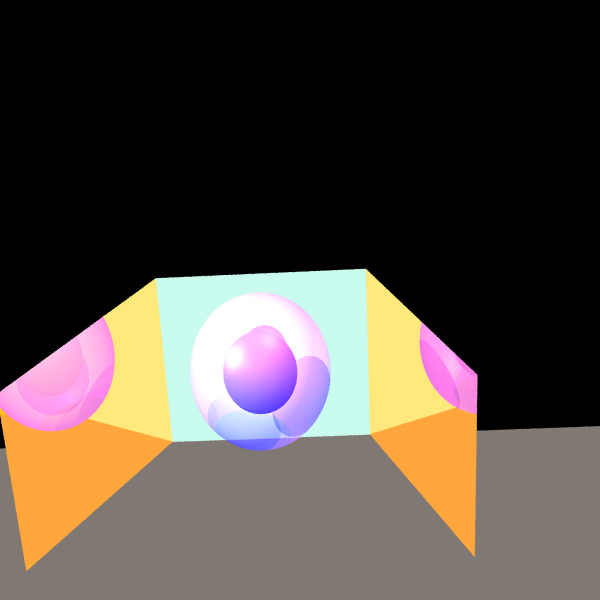
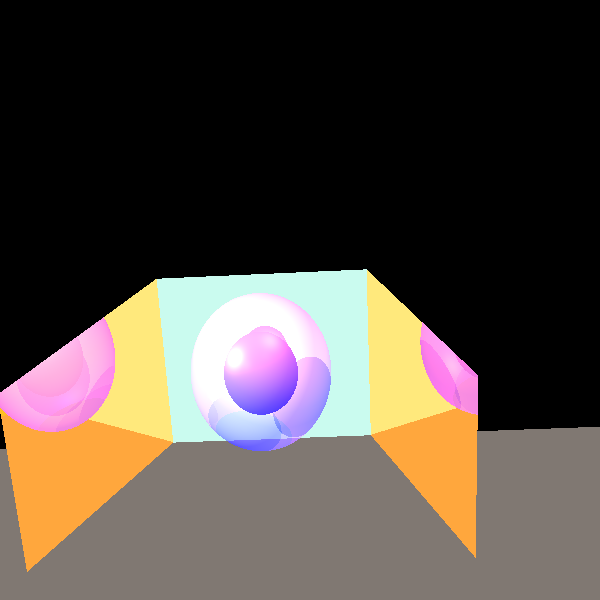
Stage 9: Jagged Edges Improved Efficiency

diff --git a/src/renderer/Camera.java b/src/renderer/Camera.java
@@ -8,6 +8,7 @@ import primitives.Vector;
 import java.util.LinkedList;
 import java.util.MissingResourceException;
 
+import static java.lang.System.out;
 import static primitives.Util.isZero;
 
 /***
@@ -25,7 +26,6 @@ public class Camera {
     private static boolean _MultiThreadingButton = false;
     private static int NUM_OF_THREADS = 1;
     private double _debugPrint = 0;
-
 
 
     //information about the view plane
@@ -51,6 +51,8 @@ public class Camera {
     private boolean _JaggedEdgesButton = false;
     //number of minipixels is used for both height and width of the minipixel for simplicity
     private static int NUMBER_OF_MINIPIXELS = 3;
+
+    public static int MAX_RECURSION = 3;
 
 
     //constructor receives @param  Point centerCam,Vector vto, Vector vup and creates camera
@@ -169,7 +171,7 @@ public class Camera {
             throw new MissingResourceException("Image creation details are not initialized", "Camera", "Writer details");
         if (_MultiThreadingButton) {
             Pixel.initialize(_imageWriter.getNy(), _imageWriter.getNx(), _debugPrint); //debug print is print interval
-            int threadsCount=3;
+            int threadsCount = 3;
             while (threadsCount-- > 0) {
                 new Thread(() -> {
                     for (Pixel pixel = new Pixel(); pixel.nextPixel(); Pixel.pixelDone()) {
@@ -180,8 +182,7 @@ public class Camera {
             }
             Pixel.waitToFinish();
 
-        }
-        else {
+        } else {
             //for every row
             for (int i = 0; i < _imageWriter.getNy(); i++) {
                 //for every column
@@ -269,7 +270,7 @@ public class Camera {
      * @param i the row of the pixel
      * @return color of the pixel
      */
-    public Color castRay(int j, int i) {
+    public Color castRayOld(int j, int i) {
 
         if ((!_depthButton) && (!_JaggedEdgesButton)) { //default code
             Ray thisPixelRay = constructRay(_imageWriter.getNx(), _imageWriter.getNy(), j, i);
@@ -440,5 +441,154 @@ public class Camera {
         //?? assuming debug print is the same as print interval
         _debugPrint = v;
         return this;
+    }
+
+    /***
+     * this function casts a ray from the camera through the current pixel and returns the color of that pixel
+     * @param j the column of the pixel
+     * @param i the row of the pixel
+     * @return color of the pixel
+     */
+    public Color castRay(int j, int i) {
+
+        if ((!_depthButton) && (!_JaggedEdgesButton)) { //default code
+            Ray thisPixelRay = constructRay(_imageWriter.getNx(), _imageWriter.getNy(), j, i);
+
+            Color thisPixelColor = _rayTracerBase.traceRay(thisPixelRay);
+
+            return thisPixelColor;
+        }
+        if (_JaggedEdgesButton) {
+            //inital color for average calculation
+            double colorX = 0;
+            double colorY = 0;
+            double colorZ = 0;
+
+            Point thisPixelPoint = createMiddlePixel(_imageWriter.getNx(), _imageWriter.getNy(), j, i);
+            // out.print(thisPixelPoint);
+
+            //creating a point in the top left corner that is slightly outside the square so that our loop will bring it
+            Point topLeftCorner = thisPixelPoint;
+            Color topLeftColor = _rayTracerBase.traceRay(new Ray(_centerCam, topLeftCorner.subtract(_centerCam).normalize()));
+
+
+            Point bottomRightCorner = thisPixelPoint.add(_Vup.scale((_heightVP / _imageWriter.getNy()) * -1));
+            bottomRightCorner = bottomRightCorner.add(_Vright.scale((_widthVP / _imageWriter.getNx())));
+            Color bottomRightColor = _rayTracerBase.traceRay(new Ray(_centerCam, bottomRightCorner.subtract(_centerCam).normalize()));
+
+            //out.print(bottomRightColor+"\n");
+            Color fullPixelColor = recursivePixelColor(topLeftCorner, topLeftColor, bottomRightCorner, bottomRightColor,
+                    _Vup, _Vright, "left", 0, (_heightVP / _imageWriter.getNy()), (_widthVP / _imageWriter.getNx()));
+
+            return fullPixelColor;
+
+
+        }
+        return Color.BLACK;
+    }
+
+    /***
+     *
+     * @param upperCorner upper left or right corner of pixel section
+     * @param upperColor color of upper corner
+     * @param bottomCorner bottom left or right corner of pixel section
+     * @param bottomColor color of bottom corner
+     * @param Vup vector going up (camera coordinates)
+     * @param Vright vector going right (camera coordinates)
+     * @param leftRight whether upper corner is to the left or the right of the bottom corner
+     * @param recursionNum number of the current recursion
+     * @return Color of the pixel section
+     */
+    public Color recursivePixelColor(Point upperCorner, Color upperColor, Point bottomCorner, Color bottomColor,
+                                     Vector Vup, Vector Vright, String leftRight, int recursionNum, double widthOfPixelSection,
+                                     double heightOfPixelSection) {
+
+        if (recursionNum == MAX_RECURSION)
+            return upperColor;
+
+       // out.print(recursionNum);
+
+        Point leftTopPoint;
+        Point rightTopPoint;
+        Point leftBottomPoint;
+        Point rightBottomPoint;
+        Point middlePoint;
+
+        Color leftTopColor;
+        Color rightTopColor;
+        Color leftBottomColor;
+        Color rightBottomColor;
+        //we calculated colors inside because we dont know who is upper yet
+        if (leftRight == "left") {
+            middlePoint = upperCorner.add(_Vup.scale(heightOfPixelSection * -0.5));
+            middlePoint = middlePoint.add(_Vright.scale(widthOfPixelSection * 0.5)).movePointRandom(_Vup, _Vright, widthOfPixelSection/4);
+
+            rightBottomPoint = bottomCorner.movePointRandom(_Vup, _Vright, widthOfPixelSection/4);
+            leftTopPoint = upperCorner.movePointRandom(_Vup, _Vright, widthOfPixelSection/4);
+            rightTopPoint = upperCorner.add(_Vright.scale(widthOfPixelSection)).movePointRandom(_Vup, _Vright, widthOfPixelSection/4);
+            leftBottomPoint = upperCorner.add(_Vup.scale(-1 * heightOfPixelSection)).movePointRandom(_Vup, _Vright, widthOfPixelSection/4);
+
+            leftTopColor = upperColor;
+            rightBottomColor = bottomColor;
+            rightTopColor = _rayTracerBase.traceRay(new Ray(_centerCam, rightTopPoint.subtract(_centerCam).normalize()));
+            //if(!rightTopColor.equals(Color.MAGENTA)){
+              //  out.print(rightTopColor);
+            //}
+            leftBottomColor = _rayTracerBase.traceRay(new Ray(_centerCam, leftBottomPoint.subtract(_centerCam).normalize()));
+
+        } else {
+            middlePoint = upperCorner.add(_Vup.scale(heightOfPixelSection * -0.5));
+            middlePoint = middlePoint.add(_Vright.scale(widthOfPixelSection * -0.5)).movePointRandom(_Vup, _Vright, widthOfPixelSection/4);
+
+            leftBottomPoint = bottomCorner.movePointRandom(_Vup, _Vright, widthOfPixelSection/4);
+            rightTopPoint = upperCorner.movePointRandom(_Vup, _Vright, widthOfPixelSection/4);
+            leftTopPoint = upperCorner.add(_Vright.scale(-1 * widthOfPixelSection)).movePointRandom(_Vup, _Vright, widthOfPixelSection/4);
+            rightBottomPoint = upperCorner.add(_Vup.scale(-1 * heightOfPixelSection)).movePointRandom(_Vup, _Vright, widthOfPixelSection/4);
+
+
+            rightTopColor = upperColor;
+            leftBottomColor = bottomColor;
+            leftTopColor = _rayTracerBase.traceRay(new Ray(_centerCam, leftTopPoint.subtract(_centerCam).normalize()));
+            rightBottomColor = _rayTracerBase.traceRay(new Ray(_centerCam, rightBottomPoint.subtract(_centerCam).normalize()));
+        }
+
+
+
+
+        Color middleColor = _rayTracerBase.traceRay(new Ray(_centerCam, middlePoint.subtract(_centerCam).normalize()));
+       // if(!middleColor.equals(Color.MAGENTA)){
+         // out.print(middleColor);
+       // }
+        Color topRight = middleColor;
+        if (!middleColor.equals(rightTopColor)) {
+
+            topRight = recursivePixelColor(rightTopPoint, rightTopColor, middlePoint, middleColor, Vup, Vright, "right",
+                    recursionNum + 1, widthOfPixelSection / 2, heightOfPixelSection / 2);
+        // out.print(topRight);
+        }
+
+        Color topLeft = middleColor;
+        if (!middleColor.equals(leftTopColor)) {
+            topLeft = recursivePixelColor(leftTopPoint, leftTopColor, middlePoint, middleColor, Vup, Vright, "left",
+                    recursionNum + 1, widthOfPixelSection / 2, heightOfPixelSection / 2);
+        }
+        //great
+        Color bottomRight = middleColor;
+        if (!middleColor.equals(rightBottomColor)) {
+            bottomRight = recursivePixelColor(middlePoint, middleColor, rightBottomPoint, rightBottomColor, Vup, Vright, "left",
+                    recursionNum + 1, widthOfPixelSection / 2, heightOfPixelSection / 2);
+        }
+
+        Color bottomLeft = middleColor;
+        if (!middleColor.equals(leftBottomColor)) {
+            bottomLeft = recursivePixelColor(middlePoint, middleColor, leftBottomPoint, leftBottomColor, Vup, Vright, "right",
+                    recursionNum + 1, widthOfPixelSection / 2, heightOfPixelSection / 2);
+        }
+
+        Color totalColor = topRight.add(topLeft, bottomRight, bottomLeft);
+        //instead of dividing every single one
+
+
+        return  totalColor.scale(0.25);
     }
 }

diff --git a/unittests/renderer/ShadowTests.java b/unittests/renderer/ShadowTests.java
@@ -172,4 +172,41 @@ public class ShadowTests {
                 .writeToImage();
     }
 
+    /**
+     * Produce a picture of a two triangles lighted by a spot light with a Sphere
+     * producing a shading
+     */
+    @Test
+    public void ourTestJaggedEdges() {
+        Geometries geometries = new Geometries(
+                new Triangle(new Point(-150, -150, -115), new Point(150, -150, -135), new Point(75, 75, -150)) //
+                        .setMaterial(new Material().setKs(0.8).setShininess(60)), //
+                new Triangle(new Point(-150, -150, -115), new Point(-70, 70, -140), new Point(75, 75, -150)) //
+                        .setMaterial(new Material().setKs(0.8).setShininess(60)), //
+                new Sphere(new Point(0, 0, -11), 30d) //
+                        .setEmission(new Color(java.awt.Color.BLUE)) //
+                        .setMaterial(new Material().setKd(0.5).setKs(0.5).setShininess(30))
+        );
+        LinkedList<LightSource> lights = new LinkedList<>();
+
+
+
+        lights.add( //
+                new PointLight(new Color(700, 400, 400), new Point(40, 40, 115)) //
+                        .setKl(4E-4).setKq(2E-5));
+
+        Scene scene2 = new Scene.SceneBuilder("Test scene").setGeometries(geometries)
+                .setAmbientLight(new AmbientLight(new Color(java.awt.Color.WHITE), new Double3(0.15)))
+                .setLights(lights).build();
+
+        Camera camera = new Camera(new Point(0, 0, 1000), new Vector(0, 0, -1), new Vector(0, 1, 0)) //
+                .setVPSize(200, 200).setVPDistance(1000) //
+                .setRayTracer(new RayTracerBasic(scene2));
+
+        camera.setJaggedEdgesButton(true, 9);
+
+        camera.setImageWriter(new ImageWriter("shadowTrianglesSphere jagged edges on", 600, 600)) //
+                .renderImage() //
+                .writeToImage();
+    }
 }

diff --git a/src/primitives/Color.java b/src/primitives/Color.java
@@ -1,5 +1,9 @@
 package primitives;
 
+import java.util.Objects;
+
+import static primitives.Util.alignZero;
+
 /**
  * Wrapper class for java.jwt.Color The constructors operate with any
  * non-negative RGB values. The colors are maintained without upper limit of
@@ -160,4 +164,21 @@ public class Color {
     public String toString() {
         return "rgb:" + rgb;
     }
+
+    public boolean equals(Color other) {
+        if (alignZero(this.rgb.d1-other.rgb.d1)!=0)
+        {
+            return false;
+        }
+        if (alignZero(this.rgb.d2-other.rgb.d2)!=0)
+        {
+            return false;
+        }
+        if (alignZero(this.rgb.d3-other.rgb.d3)!=0)
+        {
+            return false;
+        }
+        return true;
+    }
+
 }
